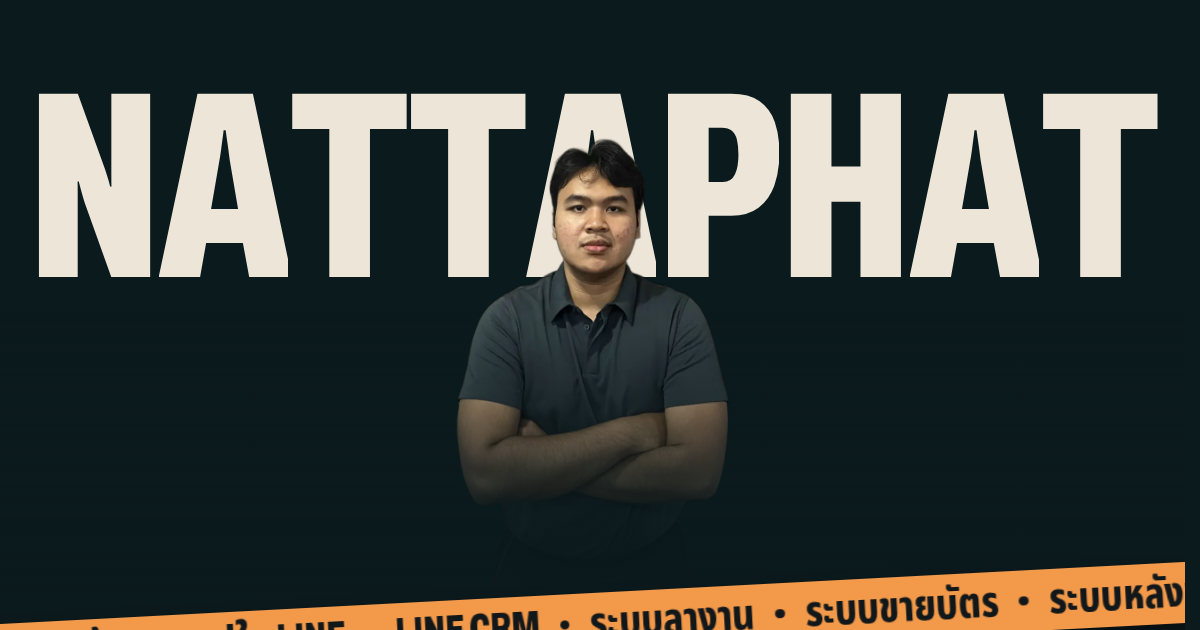
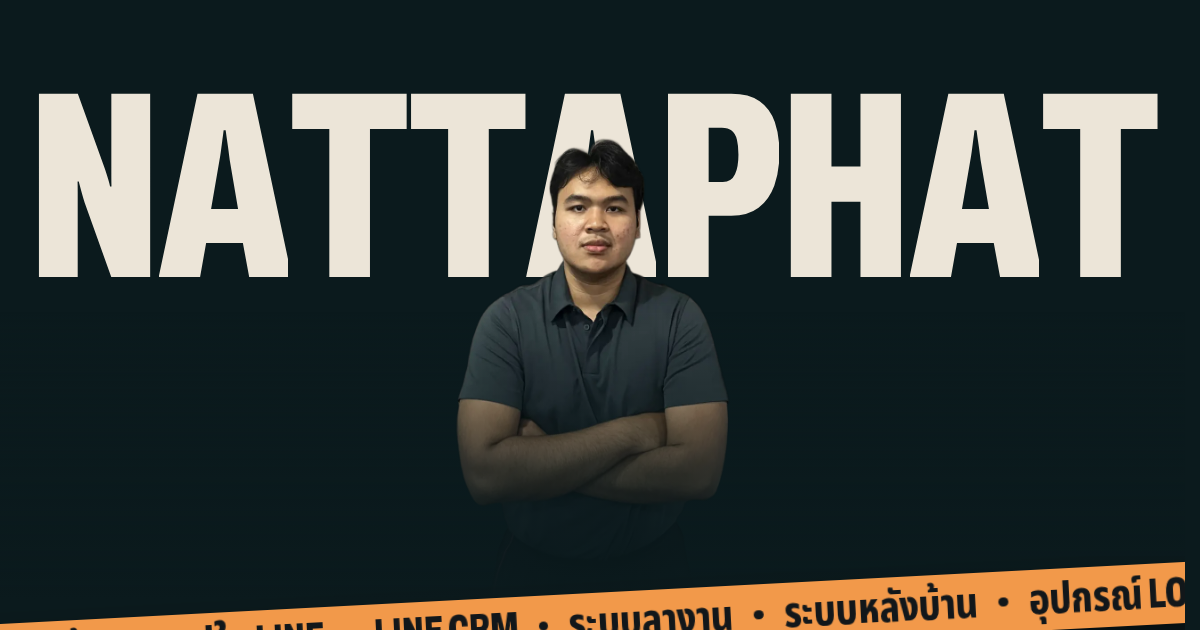
Leave the ONSTAGE box office out until it launches

Changed region(s): [[0.1542, 0.9048, 0.9867, 1.0], [0.0617, 0.9952, 0.0925, 1.0]]

diff --git a/lib/projects.ts b/lib/projects.ts
@@ -22,9 +22,6 @@ import blueoceanProductPhone from "@/assets/work/blueocean-product-phone.webp"
 import shotOnstage from "@/assets/work/onstage.webp"
 import fullOnstage from "@/assets/work/onstage-full.webp"
 import mobileOnstage from "@/assets/work/onstage-mobile.webp"
-import onstageSeats from "@/assets/work/onstage-seats.webp"
-import onstageTicket from "@/assets/work/onstage-ticket.webp"
-import onstageAdmin from "@/assets/work/onstage-admin.webp"
 import onstagePhone from "@/assets/work/onstage-phone.webp"
 import shotMemo from "@/assets/work/memo.webp"
 import memoIcon from "@/assets/work/memo/icon.webp"
@@ -459,16 +456,15 @@ export const projects: Project[] = [
   {
     slug: "onstage",
     name: "ONSTAGE",
-    kind: { th: "เว็บผู้จัดคอนเสิร์ต + ระบบขายบัตร", en: "Concert promoter site + box office" },
+    kind: { th: "เว็บผู้จัดคอนเสิร์ต", en: "Concert promoter site" },
     client: { th: "JUBILEE EXPERIENCE CO., LTD.", en: "JUBILEE EXPERIENCE CO., LTD." },
     year: "2026",
     summary: {
-      th: "เว็บบริษัทจัดคอนเสิร์ตสองภาษา ที่สลับเป็นระบบขายบัตรได้ด้วยสวิตช์เดียวในหลังบ้าน มีผังที่นั่ง คิวรอ ชำระเงิน และ e-ticket พร้อม QR ตอนนี้เปิดเป็นเว็บผลงานก่อน ระบบขายบัตรทำเสร็จแล้วรอวันเปิดขาย",
-      en: "A bilingual site for a concert promoter that turns into a box office with one switch in the admin: seat map, queue, checkout and QR e-tickets. It runs as a portfolio site for now; the box office is built and waiting for launch.",
+      th: "เว็บบริษัทจัดคอนเสิร์ตสองภาษา มีหลังบ้านภาษาไทยให้ทีมงานแก้เนื้อหาบนเว็บได้เอง",
+      en: "A bilingual site for a concert promoter, with a Thai admin panel so the team can update the site themselves.",
     },
     role: { th: "ออกแบบ พัฒนา และขึ้นระบบ", en: "Design, development and deployment" },
     points: [
-      { th: "เลือกโซนแล้วเลือกที่นั่งจากผัง ราคาและที่ว่างอัปเดตทันที ซื้อได้คนละไม่เกิน 4 ที่ และระหว่างจ่ายเงินจะกันที่นั่งไว้ให้ 10 นาที", en: "Pick a zone, then seats on the map, with live prices and availability, up to 4 seats per account, and seats held for 10 minutes while you pay" },
       { th: "หลังบ้านภาษาไทย 13 หน้า บันทึกให้เอง กดย้อนกลับได้ และเตือนถ้ามีคนแก้จากอีกเครื่องพร้อมกัน", en: "A 13-page Thai admin that saves as you go, has undo and redo, and warns you if someone else is editing from another device" },
       { th: "ย้ายไปรันได้ทั้งบนเซิร์ฟเวอร์ของตัวเอง (VPS) หรือบน Vercel แค่เปลี่ยนค่าตั้งค่า ไม่ต้องแก้โค้ด", en: "Runs on its own server (VPS) or on Vercel, switched with settings alone, no code changes" },
       { th: "เนื้อหาบนเว็บตอนนี้ยังเป็นข้อมูลตัวอย่าง รอข้อมูลจริงจากลูกค้า", en: "The shows on the site are still sample content until the client's own arrives" },
@@ -479,12 +475,7 @@ export const projects: Project[] = [
     full: fullOnstage,
     mobile: mobileOnstage,
     video: "/work/onstage-scroll",
-    gallery: [
-      { src: onstageSeats, frame: "desktop", caption: { th: "เลือกที่นั่งจากผังโซน", en: "Choosing seats on the zone map" } },
-      { src: onstageTicket, frame: "desktop", caption: { th: "e-ticket พร้อม QR หลังจ่ายเงิน", en: "The e-ticket with its QR code after payment" } },
-      { src: onstageAdmin, frame: "desktop", caption: { th: "หลังบ้าน: สวิตช์เปิดขายบัตรและภาพรวม", en: "Admin: the box-office switch and overview" } },
-      { src: onstagePhone, frame: "phone", caption: { th: "รายการคอนเสิร์ตบนมือถือ", en: "Upcoming shows on a phone" } },
-    ],
+    gallery: [{ src: onstagePhone, frame: "phone", caption: { th: "รายการคอนเสิร์ตบนมือถือ", en: "Upcoming shows on a phone" } }],
   },
   {
     slug: "eleave",

diff --git a/lib/content.ts b/lib/content.ts
@@ -92,8 +92,8 @@ export const hero = {
 
 export const ribbons = {
   services: {
-    th: ["เว็บไซต์บริษัท", "ระบบคลังสินค้า", "แอปใน LINE", "LINE CRM", "ระบบลางาน", "ระบบขายบัตร", "ระบบหลังบ้าน", "อุปกรณ์ LoRa + GPS", "วาง SEO", "คลิป TikTok"],
-    en: ["Company websites", "Inventory systems", "LINE mini apps", "LINE CRM", "Leave management", "Ticketing", "Admin panels", "LoRa + GPS devices", "SEO", "TikTok clips"],
+    th: ["เว็บไซต์บริษัท", "ระบบคลังสินค้า", "แอปใน LINE", "LINE CRM", "ระบบลางาน", "ระบบหลังบ้าน", "อุปกรณ์ LoRa + GPS", "วาง SEO", "คลิป TikTok"],
+    en: ["Company websites", "Inventory systems", "LINE mini apps", "LINE CRM", "Leave management", "Admin panels", "LoRa + GPS devices", "SEO", "TikTok clips"],
   },
   places: {
     th: ["Next.js", "TypeScript", "React", "Node.js", "PostgreSQL", "LINE API", "LIFF", "Tailwind CSS", "Docker", "GitHub Actions"],
